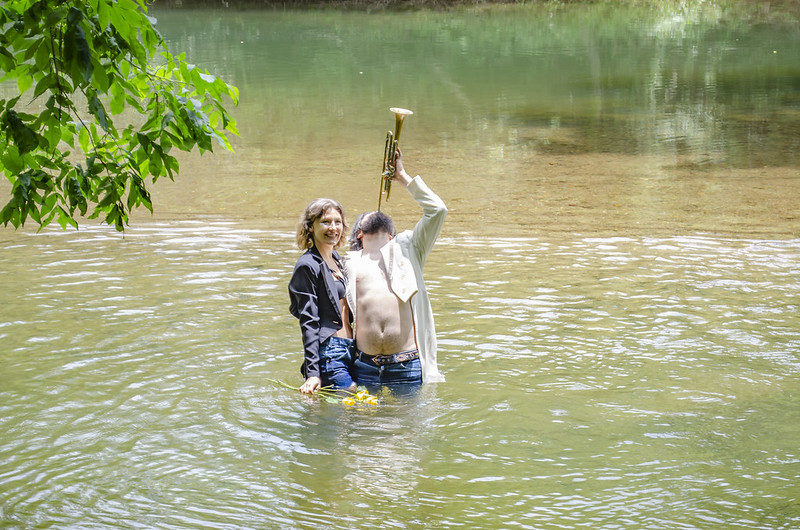
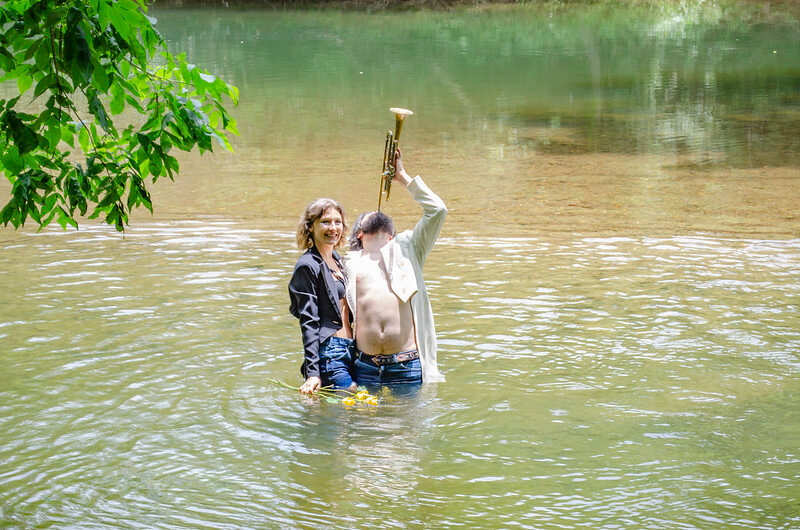
fix: trying png

diff --git a/src/app/(pages)/music/page.tsx b/src/app/(pages)/music/page.tsx
@@ -4,13 +4,13 @@ export default function Music() {
     return (
         <div className="flex flex-col md:flex-row justify-evenly items-center mt-4 gap-4 flex-wrap">
 
-            <LinkPhoto src="/images/auntvickiTristan.jpg" alt="Aunt Vicki Band" 
+            <LinkPhoto src="/images/auntvickiTristan.png" alt="Aunt Vicki Band" 
                 text="Aunt Vicki" linkto="https://www.auntvicki.rocks/" target="blank"/>
 
             <LinkPhoto src="/images/wifeIslandLake.jpg" alt="Wife Island Duo" 
                 text="Wife Island (AKA Aunt Vicki Duo)" linkto="https://wife-island-git-main-leerobertdyers-projects.vercel.app/" target="blank"/>
 
-            <LinkPhoto src="/images/tinySunPiano.jpg" alt="Wife Island Duo" 
+            <LinkPhoto src="/images/tinySunPiano.png" alt="Wife Island Duo" 
                 text="Tiny Sun" linkto="https://www.tinysunstudio.com/" target="blank"/>
 
         </div>

diff --git a/src/app/page.tsx b/src/app/page.tsx
@@ -14,7 +14,7 @@ export default function Main() {
           w-full mt-8
           flex flex-col md:flex-row 
           items-center justify-evenly gap-4">
-        <LinkPhoto src="/images/leeStage1.jpg" alt="Lee Dyer Music photo" text="Music" linkto="/music" />
+        <LinkPhoto src="/images/leeStage1.png" alt="Lee Dyer Music photo" text="Music" linkto="/music" />
         <LinkPhoto src="/images/profilePicSmaller.jpg" alt="Lee Dyer Coding photo" text="Coding" linkto="/coding" />
 
       </div>
